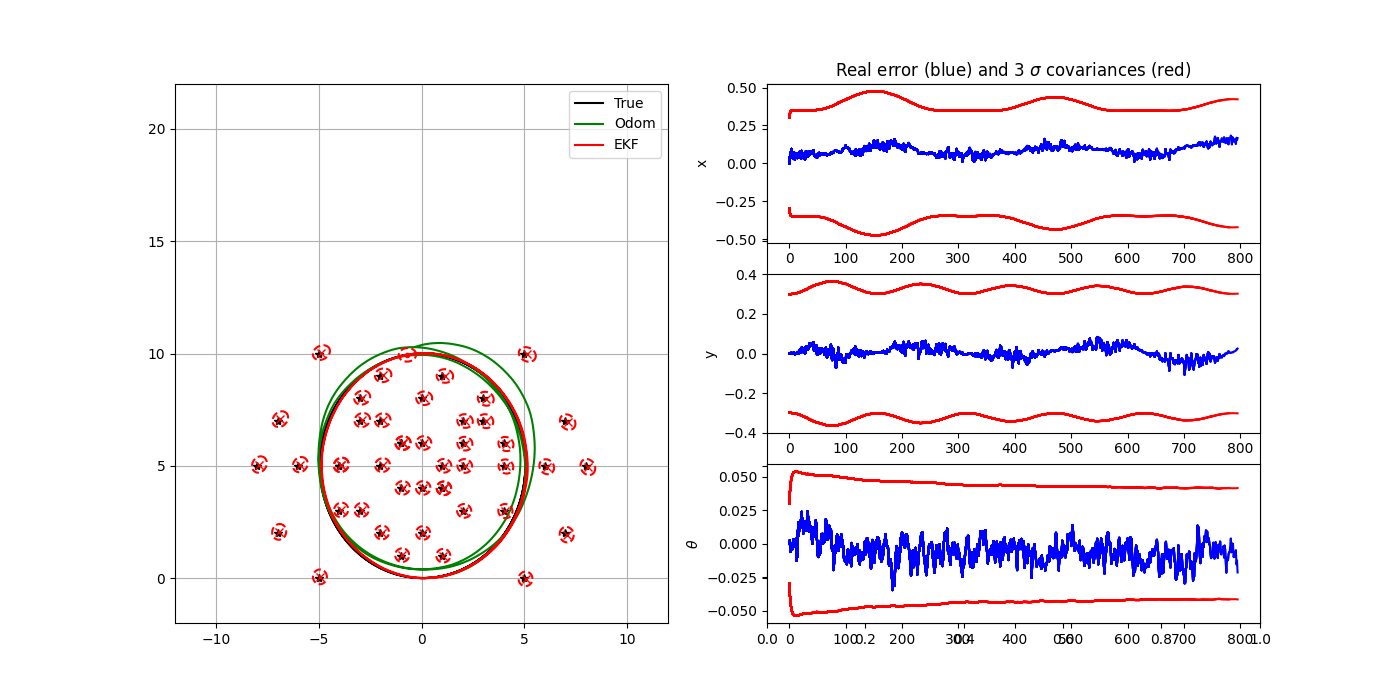
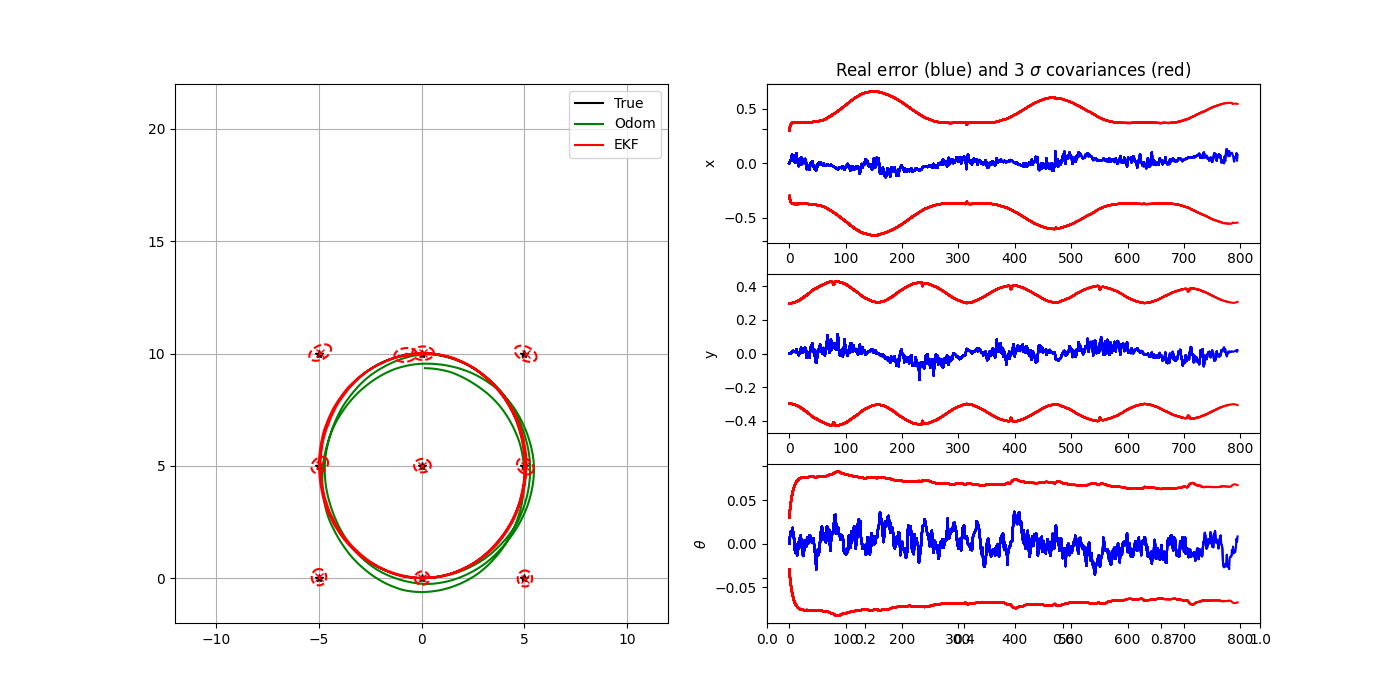
Questions 2, 3 and 4

diff --git a/TP3/ekf_slam_Q4.py b/TP3/ekf_slam_Q4.py
@@ -19,6 +19,19 @@ STATE_SIZE = 3  # State size [x,y,yaw]
 LM_SIZE = 2  # LM state size [x,y]
 KNOWN_DATA_ASSOCIATION = 1  # Whether we use the true landmarks id or not
 
+
+# UDI parameters
+UDI_R_LIST = [2.0, 4.0, 6.0, 8.0]        # guessed ranges along the ray (<= MAX_RANGE)
+UDI_P_RADIAL = 9.0                        # big variance along the ray (m^2)
+UDI_P_TANG   = 0.5                        # smaller across-ray variance
+UDI_PRUNE_THRESH = 1e-4                   # prune hypothesis if its weight gets too small
+
+# book-keeping for hypothesis weights (indexed like landmarks in state)
+lm_weights = []   # one weight per landmark (same order as in xEst)
+lm_groups  = []   # group id per landmark (hypotheses of same real feature share a group)
+next_group_id = 0
+
+
 # Simulation parameter
 # noise on control input
 Q_sim = (3 * np.diag([0.1, np.deg2rad(1)])) ** 2
@@ -29,7 +42,7 @@ Py_sim = (1 * np.diag([0.1, np.deg2rad(5)])) ** 2
 # Estimated input noise for Kalman Filter
 Q = 2 * Q_sim
 # Estimated measurement noise for Kalman Filter
-Py = 2 * Py_sim
+Py = np.array([[2 * Py_sim[1, 1]]])   # 1x1 (bearing variance only)
 
 # Initial estimate of pose covariance
 initPEst = 0.01 * np.eye(STATE_SIZE)
@@ -47,6 +60,49 @@ ax5 = plt.subplot(3, 2, 6)
 
 
 # --- Helper functions
+
+def add_landmark_hypothesis(xEst, PEst, r, angle_meas, group_id):
+    # hypothesized absolute position
+    lx = xEst[0, 0] + r * math.cos(xEst[2, 0] + angle_meas)
+    ly = xEst[1, 0] + r * math.sin(xEst[2, 0] + angle_meas)
+    lm = np.array([[lx], [ly]])
+
+    # append to state
+    xEst = np.vstack((xEst, lm))
+
+    # build oriented covariance for this landmark block
+    c, s = math.cos(xEst[2, 0] + angle_meas), math.sin(xEst[2, 0] + angle_meas)
+    Rdir = np.array([[c, -s], [s, c]])  # rotation from local (radial,tangential) to world
+    Plm_local = np.diag([UDI_P_RADIAL, UDI_P_TANG])
+    Plm_world = Rdir @ Plm_local @ Rdir.T
+
+    # cross-covariances using Jacobians of augmentation (approx with Jr for pose only)
+    Jr = np.array([[1.0, 0.0, -r * s],
+                   [0.0, 1.0,  r * c]])
+    # extend P (pose cross terms)
+    bottomPart = np.hstack((Jr @ PEst[0:3, 0:3], Jr @ PEst[0:3, 3:]))
+    rightPart  = bottomPart.T
+    PEst = np.vstack((np.hstack((PEst, rightPart)),
+                      np.hstack((bottomPart, Jr @ PEst[0:3, 0:3] @ Jr.T + Plm_world))))
+    # bookkeeping
+    lm_weights.append(1.0 / len(UDI_R_LIST))  # start uniform
+    lm_groups.append(group_id)
+    return xEst, PEst
+
+def prune_landmark(xEst, PEst, i):
+    global lm_weights, lm_groups
+    id0 = STATE_SIZE + 2*i
+    keep_idx = list(range(id0)) + list(range(id0+2, len(xEst)))
+    xEst = xEst[keep_idx, :]
+
+    keep_rows = keep_idx
+    keep_cols = keep_idx
+    PEst = PEst[np.ix_(keep_rows, keep_cols)]
+
+    del lm_weights[i]
+    del lm_groups[i]
+    return xEst, PEst
+
 
 def calc_n_lm(x):
     """
@@ -171,34 +227,27 @@ def jacob_motion(x, u):
 
 def observation(xTrue, xd, uTrue, Landmarks):
     """
-    Generate noisy control and observation and update true position and dead reckoning
+    Bearing-only perception: y = [angle, id]
     """
     xTrue = motion_model(xTrue, uTrue)
 
-    # add noise to gps x-y
-    y = np.zeros((0, 3))
-
+    y = np.zeros((0, 2))  # angle, id
     for i in range(len(Landmarks[:, 0])):
-
         dx = Landmarks[i, 0] - xTrue[0, 0]
         dy = Landmarks[i, 1] - xTrue[1, 0]
-        d = math.hypot(dx, dy)
-        angle = pi_2_pi(math.atan2(dy, dx) - xTrue[2, 0])
+        d  = math.hypot(dx, dy)
         if d <= MAX_RANGE:
-            dn = d + np.random.randn() * Py_sim[0, 0] ** 0.5  # add noise
-            dn = max(dn,0)
-            angle_n = angle + np.random.randn() * Py_sim[1, 1] ** 0.5  # add noise
-            yi = np.array([dn, angle_n, i])
+            angle = pi_2_pi(math.atan2(dy, dx) - xTrue[2, 0])
+            angle_n = angle + np.random.randn() * (Py_sim[1, 1] ** 0.5)
+            yi = np.array([angle_n, i])
             y = np.vstack((y, yi))
 
-    # add noise to input
-    u = np.array([[
-        uTrue[0, 0] + np.random.randn() * Q_sim[0, 0] ** 0.5,
-        uTrue[1, 0] + np.random.randn() * Q_sim[1, 1] ** 0.5]]).T
-
+    # noisy control for dead-reckoning
+    u = np.array([[uTrue[0, 0] + np.random.randn() * Q_sim[0, 0] ** 0.5,
+                   uTrue[1, 0] + np.random.randn() * Q_sim[1, 1] ** 0.5]]).T
     xd = motion_model(xd, u)
-    
     return xTrue, y, xd, u
+
 
 
 def search_correspond_landmark_id(xEst, PEst, yi):
@@ -243,6 +292,28 @@ def jacob_h(q, delta, x, i):
 
     return H
 
+def jacob_h_bearing(x, i):
+    """
+    H for bearing-only: h = atan2(dy,dx) - theta
+    Returns 1 x (3+2n) matrix
+    """
+    nLM = calc_n_lm(x)
+    lm = get_landmark_position_from_state(x, i)
+    delta = lm - x[0:2]
+    q = (delta.T @ delta)[0, 0]
+    dx, dy = delta[0, 0], delta[1, 0]
+
+    # d(angle)/d(...)
+    G2 = np.array([[ dy / q, -dx / q, -1.0, -dy / q, dx / q ]])  # 1x5
+
+    F1 = np.hstack((np.eye(3), np.zeros((3, 2 * nLM))))
+    F2 = np.hstack((np.zeros((2, 3)), np.zeros((2, 2 * i)),
+                    np.eye(2), np.zeros((2, 2 * nLM - 2 * (i + 1)))))
+    F  = np.vstack((F1, F2))
+    H  = G2 @ F
+    return H, q, delta
+
+
 
 def jacob_augment(x, y):
     """
@@ -282,66 +353,87 @@ def calc_innovation(xEst, PEst, y, LMid):
     
     return innov, S, H
 
+def calc_innovation_bearing(xEst, PEst, angle_meas, LMid):
+    lm = get_landmark_position_from_state(xEst, LMid)
+    delta = lm - xEst[0:2]
+    y_angle_pred = math.atan2(delta[1, 0], delta[0, 0]) - xEst[2, 0]
+    innov = np.array([[pi_2_pi(angle_meas - y_angle_pred)]])  # 1x1
+    H, _, _ = jacob_h_bearing(xEst, LMid)
+    S = H @ PEst @ H.T + Py  # 1x1
+    return innov, S, H
+
+
 
 def ekf_slam(xEst, PEst, u, y):
-    """
-    Apply one step of EKF predict/correct cycle
-    """
-    
-    S = STATE_SIZE
-    
+    global next_group_id
+
+    S_ = STATE_SIZE
     # Predict
-    A, B = jacob_motion(xEst[0:S], u)
+    A, B = jacob_motion(xEst[0:S_], u)
+    xEst[0:S_] = motion_model(xEst[0:S_], u)
+    PEst[0:S_, 0:S_] = A @ PEst[0:S_, 0:S_] @ A.T + B @ Q @ B.T
+    PEst[0:S_, S_:] = A @ PEst[0:S_, S_:]
+    PEst[S_:, 0:S_] = PEst[0:S_, S_:].T
+    PEst = 0.5 * (PEst + PEst.T)
 
-    xEst[0:S] = motion_model(xEst[0:S], u)
-
-    PEst[0:S, 0:S] = A @ PEst[0:S, 0:S] @ A.T + B @ Q @ B.T
-    PEst[0:S,S:] = A @ PEst[0:S,S:]
-    PEst[S:,0:S] = PEst[0:S,S:].T
-
-    PEst = (PEst + PEst.T) / 2.0  # ensure symetry
-    
-    # Update
-    for iy in range(len(y[:, 0])):  # for each observation
+    # Update (bearing-only)
+    for k in range(len(y[:, 0])):
+        angle_meas = y[k, 0]
+        # === Data association: pick the lm (if any) with smallest Mahalanobis on bearing
         nLM = calc_n_lm(xEst)
-        
-        if KNOWN_DATA_ASSOCIATION:
-            try:
-                min_id = trueLandmarkId.index(y[iy, 2])
-            except ValueError:
-                min_id = nLM
-                trueLandmarkId.append(y[iy, 2])
+        best_i, best_d = -1, M_DIST_TH
+        for i in range(nLM):
+            innov, S, H = calc_innovation_bearing(xEst, PEst, angle_meas, i)
+            d = float(innov @ np.linalg.inv(S) @ innov.T)  # scalar
+            if d < best_d:
+                best_d = d
+                best_i = i
+
+        if best_i < 0:
+            # --- New perceived direction: create hypothesis bank along the ray
+            gid = next_group_id; next_group_id += 1
+            for r in UDI_R_LIST:
+                xEst, PEst = add_landmark_hypothesis(xEst, PEst, r, angle_meas, gid)
+            continue  # no correction this step (we just seeded hypotheses)
         else:
-            min_id = search_correspond_landmark_id(xEst, PEst, y[iy, 0:2])
+            # --- EKF correction using the MOST LIKELY hypothesis among the same group
+            # Compute likelihoods for all hypotheses in this group
+            gid = lm_groups[best_i]
+            idxs = [i for i in range(nLM) if lm_groups[i] == gid]
+            lik = []
+            for i in idxs:
+                innov, S, H = calc_innovation_bearing(xEst, PEst, angle_meas, i)
+                L = float(np.exp(-0.5 * innov * (np.linalg.inv(S)) * innov) / np.sqrt(2*np.pi*S))
+                lik.append(L)
+            # normalize & update weights
+            lik = np.array(lik).reshape(-1)
+            lik = lik / (np.sum(lik) + 1e-12)
+            for j, i in enumerate(idxs):
+                lm_weights[i] *= lik[j]
 
+            # pick the max-weight hypothesis
+            i_star = idxs[int(np.argmax([lm_weights[i] for i in idxs]))]
 
-        # Extend map if required
-        if min_id == nLM:
-            print("New LM")
-            
-            # Extend state and covariance matrix
-            xEst = np.vstack((xEst, calc_landmark_position(xEst, y[iy, :])))
-
-            Jr, Jy = jacob_augment(xEst[0:3], y[iy, :])
-            bottomPart = np.hstack((Jr @ PEst[0:3, 0:3], Jr @ PEst[0:3, 3:]))
-            rightPart = bottomPart.T
-            PEst = np.vstack((np.hstack((PEst, rightPart)),
-                              np.hstack((bottomPart,
-                              Jr @ PEst[0:3, 0:3] @ Jr.T + Jy @ Py @ Jy.T))))
-
-        else:
-            # Perform Kalman update
-            innov, S, H = calc_innovation(xEst, PEst, y[iy, 0:2], min_id)
+            # EKF update only with i_star
+            innov, S, H = calc_innovation_bearing(xEst, PEst, angle_meas, i_star)
             K = (PEst @ H.T) @ np.linalg.inv(S)
-            
-            xEst = xEst + (K @ innov)
-                        
+            xEst = xEst + K @ innov
             PEst = (np.eye(len(xEst)) - K @ H) @ PEst
-            PEst = 0.5 * (PEst + PEst.T)  # Ensure symetry
-        
-    xEst[2] = pi_2_pi(xEst[2])
+            PEst = 0.5 * (PEst + PEst.T)
 
+            # prune weak hypotheses from the same group
+            # (recompute nLM each time because indices shift after pruning)
+            i = 0
+            while i < calc_n_lm(xEst):
+                if lm_groups[i] == gid and lm_weights[i] < UDI_PRUNE_THRESH and i != i_star:
+                    xEst, PEst = prune_landmark(xEst, PEst, i)
+                    # do not increment i (list shrank)
+                else:
+                    i += 1
+
+    xEst[2] = pi_2_pi(xEst[2])
     return xEst, PEst
+
 
 
 def ring_landmarks(R=12.5, cx=0.0, cy=12.5, n=12):
@@ -379,14 +471,16 @@ def main():
         [[0.0, 0.0]]                                     # (optional) center landmark
     ]).astype(float)
 
-    """
+    
 
     # landmark positions for Q1-c
     Landmarks = np.array([[0, 0], [0, 2], [0, -2],
                           [2, 0], [-2, 0], [2,2], 
                           [-2,2], [2,-2], [-2,-2]])
 
-
+"""
+    # landmark positions for Q4 (sparse landmarks)
+    Landmarks = np.array([[12.0, 12.5]])
 
 
     # Init state vector [x y yaw]' and covariance for Kalman
@@ -483,7 +577,7 @@ def main():
             plt.pause(0.001)
 
 
-    plt.savefig('EKFSLAM.png')
+    plt.savefig('EKFSLAM_Q4.png')
 
     tErrors = np.sqrt(np.square(hxError[0, :]) + np.square(hxError[1, :]))
     oErrors = np.sqrt(np.square(hxError[2, :]))

diff --git a/TP3/README.md b/TP3/README.md
@@ -37,6 +37,68 @@ In the long-loop sparse-map experiment, the EKF-SLAM shows significant drift whi
 
 ## Question 2
 
+Now we'll analyse the same situations as in Question 1 but  when the data association is performed using the Mahalanobis distance (KNOWN_DATA_ASSOCIATION = 0)
+
+#### A short loop and a dense map with many landmarks inside the robot perception radius
+
+<p align="center">
+  <img src="Q2-a.png" alt="" title="" width="500">
+  <br>
+  <em>Figure 4 – A short loop and a dense map with many landmarks inside the robot perception radius with KNOWN_DATA_ASSOCIATION = 0 </em>
+</p>
+
+Even without known IDs, nearest-neighbor association remains reliable in a dense, well-observed loop: pose errors stay within the covariance limits, but slightly higher than Question 1 and the map remains consistent, with loop closure causing only small, smooth corrections.
+
+#### A long loop and a dense map with many landmarks all along the loop
+
+<p align="center">
+  <img src="Q2-b.png" alt="" title="" width="500">
+  <br>
+  <em>Figure 5 – A long loop and a dense map with many landmarks all along the loop with KNOWN_DATA_ASSOCIATION = 0 </em>
+</p>
+
+With unknown data association on a long, landmark-dense loop, EKF-SLAM remains accurate and largely consistent: pose errors grow slowly during the outbound leg and contract at loop closure, confirming that dense, well-distributed features let simple nearest-neighbor association succeed without ground-truth IDs.
+
+#### A long loop and a sparse map with only few landmarks near the start position
+
+<p align="center">
+  <img src="Q2-c.png" alt="" title="" width="500">
+  <br>
+  <em>Figure 6 – A long loop and a sparse map with only few landmarks near the start position with KNOWN_DATA_ASSOCIATION = 0 </em>
+</p>
+
+With unknown data association and only a few landmarks near the start, EKF suffers substantial drift during the long unobserved loop. Upon re-entering the landmark region, loop closure produces a large correction and rapid covariance contraction. The scenario is brittle to data-association errors, but in this run the filter remains largely consistent after closure.
+
 ## Question 3 
 
+#### Q and Py smaller than the values used for simulation (Q_Sim and Py_Sim)
+
+<p align="center">
+  <img src="Q2-a.png" alt="" title="" width="500">
+  <br>
+  <em>Figure 6 – A long loop and a sparse map with only few landmarks near the start position with KNOWN_DATA_ASSOCIATION = 0 with Q and Py = 0.5 </em>
+</p>
+
+#### Q and Py equal than the values used for simulation (Q_Sim and Py_Sim)
+
+<p align="center">
+  <img src="Q2-b.png" alt="" title="" width="500">
+  <br>
+  <em>Figure 6 – A long loop and a sparse map with only few landmarks near the start position with KNOWN_DATA_ASSOCIATION = 0 with Q and Py = 1  </em>
+</p>
+
+#### Q and Py larger than the values used for simulation (Q_Sim and Py_Sim)
+
+<p align="center">
+  <img src="Q2-c.png" alt="" title="" width="500">
+  <br>
+  <em>Figure 6 – A long loop and a sparse map with only few landmarks near the start position with KNOWN_DATA_ASSOCIATION = 0 with Q and Py = 3 </em>
+</p>
+
+In the long-loop, sparse-map, unknown-association scenario, using Q and Py equal or slightly larger than the true simulator noises yields the best trade-off: the filter is consistent, loop closure is reliable, and the map remains clean. Assuming noises too small makes the EKF overconfident, producing inconsistent estimates and duplicate landmarks, while setting them too large makes association too permissive and risks wrong matches that can corrupt the map.
+
 ## Question 4
+
+In this part of the experiment, the EKF-SLAM algorithm was modified to operate in a bearing-only configuration using the principle of undelayed initialization (UDI). Instead of relying on both range and bearing measurements, the filter processed only the direction (angle) of each observed landmark. Since a single bearing measurement does not determine a landmark’s position, several hypotheses were initialized along the perceived direction, each assigned an increasing distance and a large covariance in the radial direction. As the robot moved and obtained multiple observations from different viewpoints, these hypotheses were updated, with the most consistent one being reinforced while the others were gradually pruned. This approach enabled the filter to begin incorporating information without waiting for range estimation. In the simulation with a single landmark, multiple hypotheses were initially generated along the observation ray, but as the robot trajectory evolved, one estimate converged toward the true landmark position. The final map contained a single landmark with an elongated covariance ellipse aligned with the line of sight, indicating residual range uncertainty. The estimated trajectory remained close to the true path, and the error curves stayed within the predicted uncertainty bounds, demonstrating that the bearing-only EKF-SLAM with undelayed initialization maintained consistency and stable performance despite the limited measurement information.
+
+The code can be found in 'ekf_slam_Q4.py'
